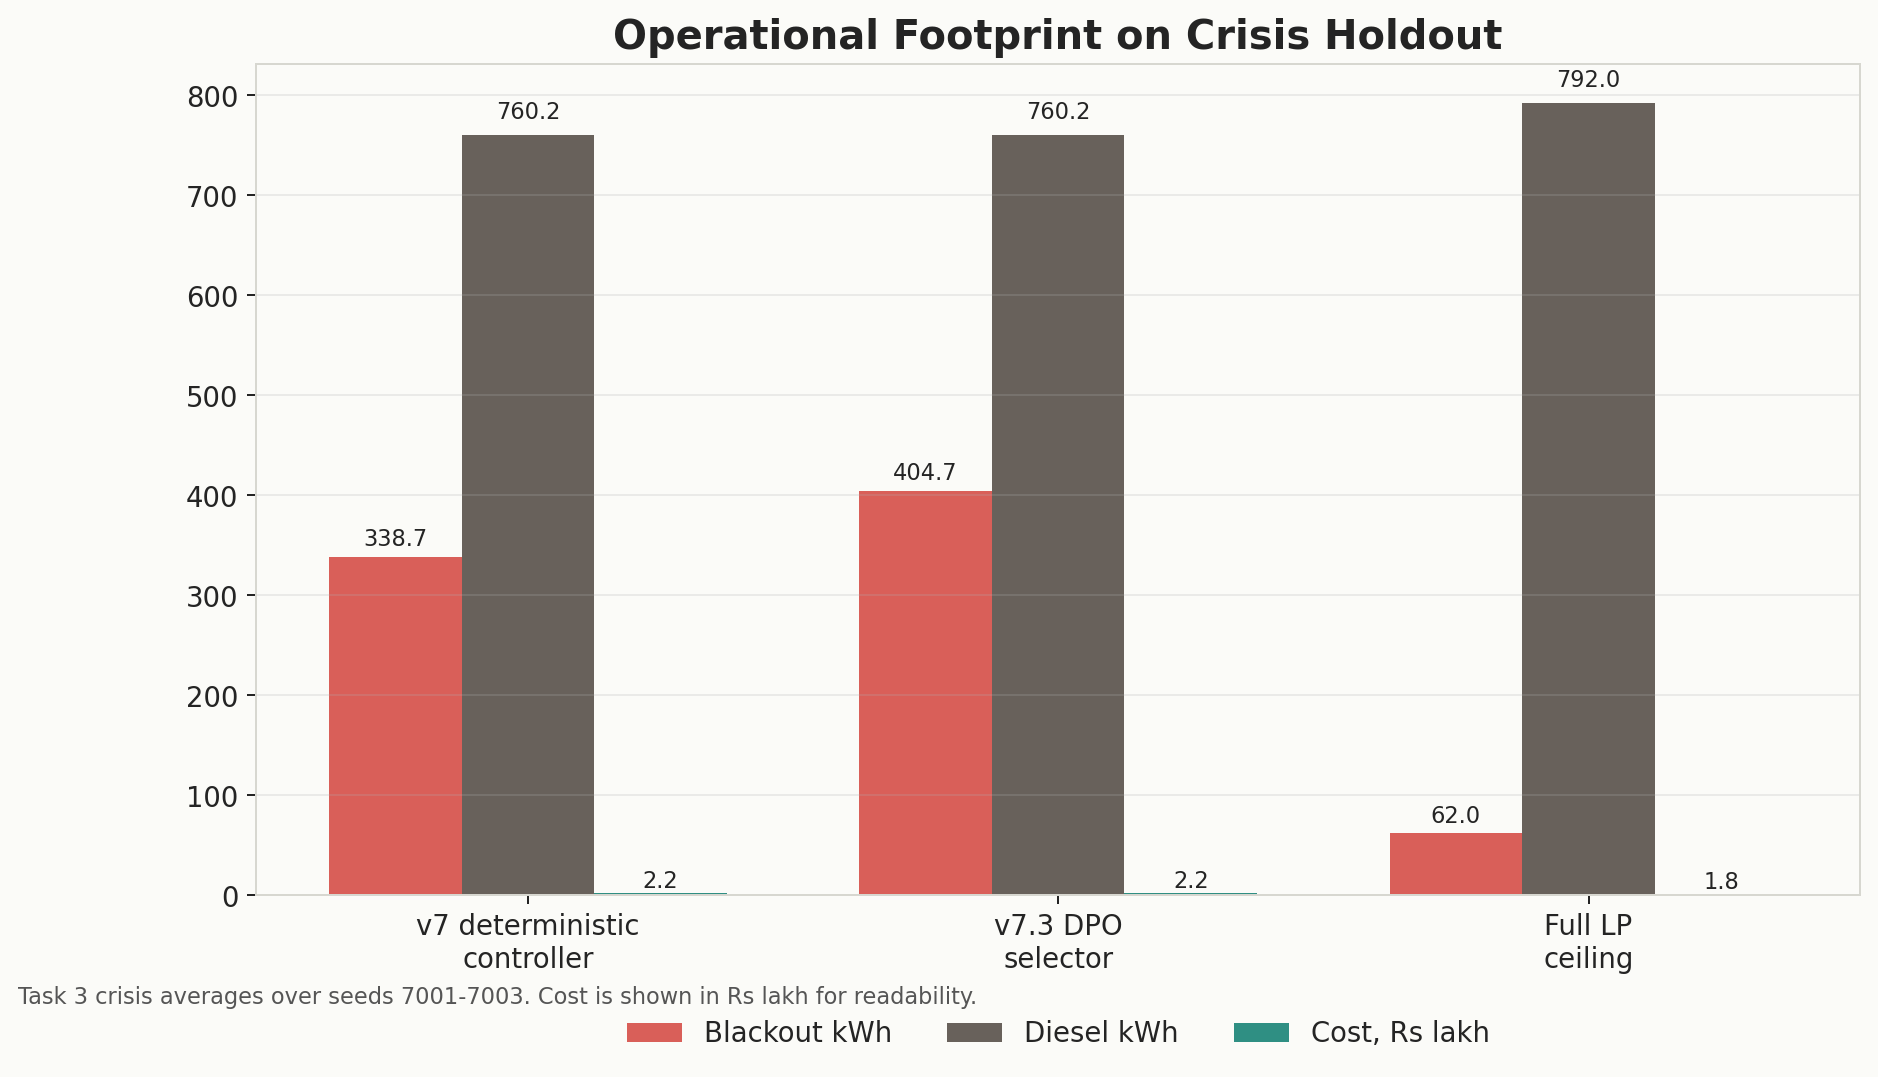
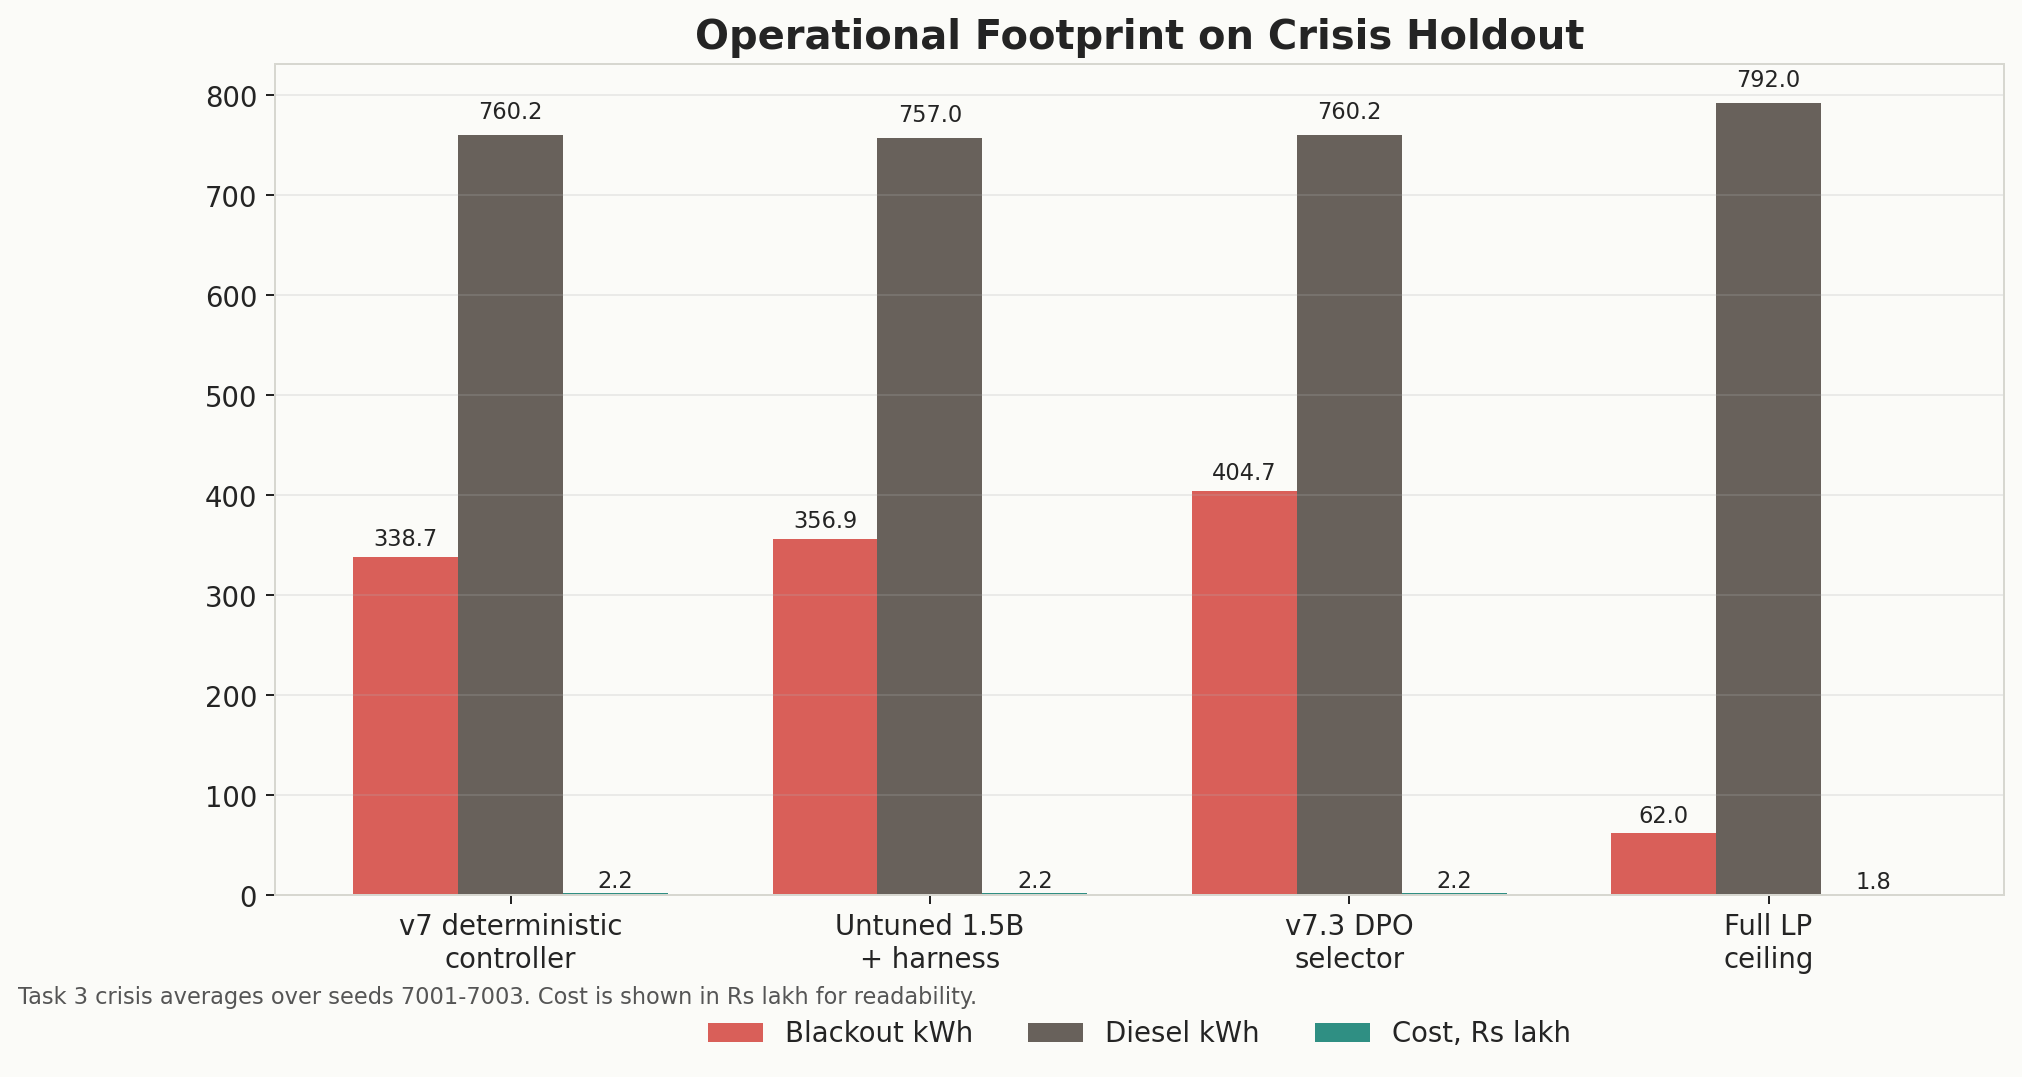
Add base model comparison to GridOps release card

diff --git a/scripts/create_gridops_release_plots.py b/scripts/create_gridops_release_plots.py
@@ -27,6 +27,13 @@ SYSTEMS = {
         "task_3_crisis": 0.7503,
         "lp_capture": 0.9604,
     },
+    "Untuned 1.5B\n+ harness": {
+        "average": 0.7911,
+        "task_1_normal": 0.7993,
+        "task_2_heatwave": 0.8223,
+        "task_3_crisis": 0.7517,
+        "lp_capture": 0.9609,
+    },
     "v7.1 SFT\nselector": {
         "average": 0.7880,
         "task_1_normal": 0.7994,
@@ -55,6 +62,11 @@ FOOTPRINT = {
         "blackout_kwh": 338.7,
         "diesel_kwh": 760.2,
         "cost_rs": 217_690.0,
+    },
+    "Untuned 1.5B\n+ harness": {
+        "blackout_kwh": 356.85,
+        "diesel_kwh": 757.0,
+        "cost_rs": 216_568.16,
     },
     "v7.3 DPO\nselector": {
         "blackout_kwh": 404.68,
@@ -112,7 +124,7 @@ def plot_task_scores() -> None:
     width = 0.24
     colors = ["#2f8f83", "#e8a33a", "#d95f59"]
 
-    fig, ax = plt.subplots(figsize=(13, 6.2))
+    fig, ax = plt.subplots(figsize=(14.2, 6.2))
     for index, (key, label) in enumerate(tasks):
         values = [SYSTEMS[name][key] for name in labels]
         bars = ax.bar(x + (index - 1) * width, values, width, label=label, color=colors[index])
@@ -139,8 +151,8 @@ def plot_task_scores() -> None:
 def plot_lp_capture() -> None:
     labels = [label for label, row in SYSTEMS.items() if row["lp_capture"] is not None]
     values = [SYSTEMS[label]["lp_capture"] * 100 for label in labels]
-    colors = ["#2f8f83", "#61a6d8", "#8d73d8", "#242424"]
-    fig, ax = plt.subplots(figsize=(11.5, 5.8))
+    colors = ["#2f8f83", "#d6a13b", "#61a6d8", "#8d73d8", "#242424"]
+    fig, ax = plt.subplots(figsize=(12.4, 5.8))
     bars = ax.bar(labels, values, color=colors)
     annotate_bars(ax, bars, fmt="{:.2f}%", offset=0.5)
     ax.set_ylim(90, 102)
@@ -150,7 +162,7 @@ def plot_lp_capture() -> None:
     fig.text(
         0.01,
         0.01,
-        "The learned selector captures 95.81% of the full-episode LP ceiling while keeping 100% strategy validity.",
+        "The strategy harness is the main unlock: even an untuned 1.5B model reaches 96.09% LP capture with strict strategy JSON.",
         fontsize=9,
         color="#555",
     )
@@ -167,7 +179,7 @@ def plot_operational_footprint() -> None:
     ]
     x = np.arange(len(labels))
     width = 0.25
-    fig, ax = plt.subplots(figsize=(11.5, 6.0))
+    fig, ax = plt.subplots(figsize=(12.4, 6.0))
     for index, (key, name, color, scale) in enumerate(metrics):
         values = [FOOTPRINT[label][key] / scale for label in labels]
         bars = ax.bar(x + (index - 1) * width, values, width, label=name, color=color)

diff --git a/hf_release/capabl_machines/model_README.md b/hf_release/capabl_machines/model_README.md
@@ -112,6 +112,7 @@ OpenEnv: score the result
 ```text
 100% valid strategy outputs from the learned selector
 96.04% LP ceiling capture from the strategy-controller system
+96.09% LP ceiling capture from an untuned 1.5B model using the same harness
 3 tested operating regimes: normal, heatwave, crisis/outage
 ```
 
@@ -119,9 +120,17 @@ The strongest deployable system today is the deterministic v7
 strategy-controller. The learned v7.3 selector nearly matches it while producing
 perfectly valid strategy JSON on the holdout set.
 
+We also ran the most important sanity check: the untouched base model with the
+same v7 strategy prompt and controller. It scored `0.7911`, slightly above the
+released adapter's `0.7888`. That is not a failure of fine-tuning; it is the
+central engineering result. The strategy abstraction and optimizer harness do
+most of the heavy lifting. The adapter is the packaged, reproducible, audited
+selector from the training pipeline, but the architecture is the real unlock.
+
 | Release highlight | Value |
 |---|---:|
 | v7 deterministic controller average score | 0.7907 |
+| untuned Qwen 2.5 1.5B + v7 harness average score | 0.7911 |
 | v7.3 learned selector average score | 0.7888 |
 | v7.3 valid strategy rate | 100.00% |
 | v7.3 LP ceiling capture | 95.81% |
@@ -197,7 +206,8 @@ Holdout seeds: `7001,7002,7003`.
 | System | Avg score | Valid strategy/action | Task 1 normal | Task 2 heatwave | Task 3 crisis | LP capture |
 |---|---:|---:|---:|---:|---:|---:|
 | v5.1 direct action model | 0.7354 | 0.9969 action | 0.7896 | 0.7681 | 0.6484 | - |
-| v7 deterministic strategy-controller | **0.7907** | 1.0000 action | **0.7995** | **0.8224** | **0.7503** | **96.04%** |
+| v7 deterministic strategy-controller | 0.7907 | 1.0000 action | **0.7995** | **0.8224** | 0.7503 | 96.04% |
+| untuned Qwen 2.5 1.5B + v7 harness | **0.7911** | 1.0000 strategy | 0.7993 | 0.8223 | **0.7517** | **96.09%** |
 | v7.1 SFT strategy selector | 0.7880 | 1.0000 strategy | 0.7994 | 0.8224 | 0.7421 | 95.71% |
 | v7.2 DPO strategy selector | 0.7888 | 1.0000 strategy | 0.7993 | 0.8223 | 0.7449 | 95.81% |
 | v7.3 DPO strategy selector | 0.7888 | 1.0000 strategy | 0.7993 | 0.8223 | 0.7449 | 95.81% |
@@ -209,16 +219,18 @@ Holdout seeds: `7001,7002,7003`.
 
 The crisis task is the real stress test: haze reduces solar, demand rises,
 diesel is limited, and the grid outage forces islanded operation. The learned
-selector stays close to the deterministic controller, but the remaining gap to
-LP is mostly crisis blackout and cost.
+selector and the untuned base model both stay close to the deterministic
+controller, but the remaining gap to LP is mostly crisis blackout and cost.
 
 ![GridOps crisis operational footprint](assets/gridops_v7_crisis_footprint.png)
 
 ## Why This Is Useful
 
 The learned model is small, stable, and schema-reliable. The controller is the
-stronger deployable policy. Together they show a practical pattern for domain
-AI systems:
+stronger deployable policy. The base-model comparison makes the lesson sharper:
+we did not merely train a checkpoint, we found the right interface between an
+LLM and an optimization system. Together they show a practical pattern for
+domain AI systems:
 
 ```text
 Do not force the model to be the whole controller.
